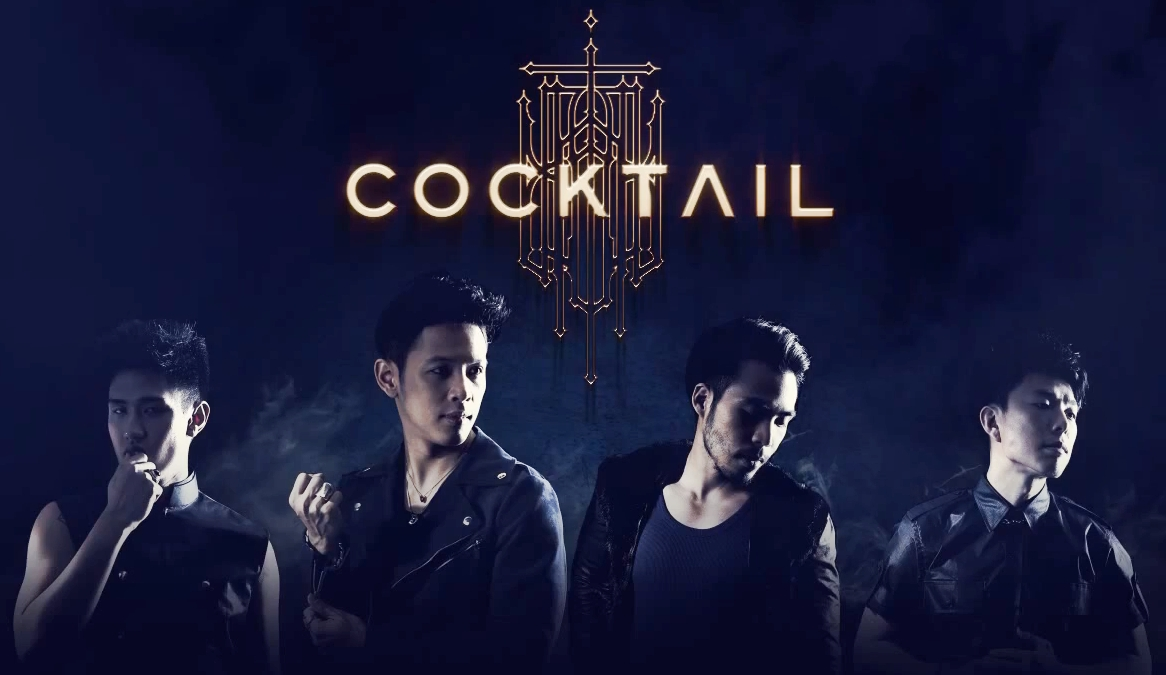
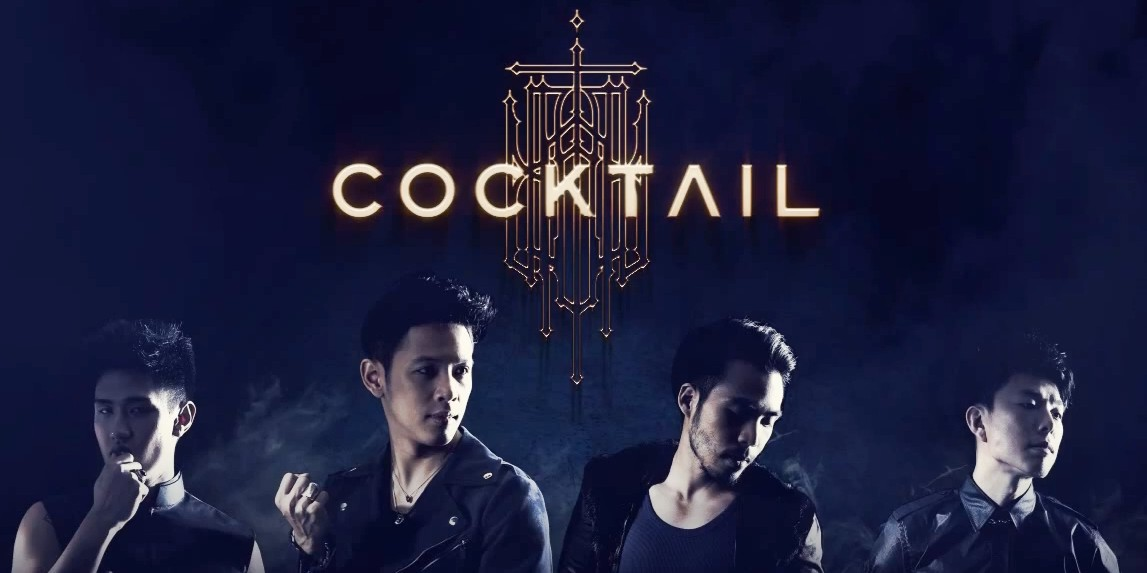
homepage and navbar

Changed region(s): [[0.0, 0.0, 1.0, 1.0], [0.1221, 0.4747, 0.1831, 0.534]]

diff --git a/apps/FrontEnd/src/component/nav.jsx b/apps/FrontEnd/src/component/nav.jsx
@@ -3,7 +3,7 @@ import Icon from '../assets/react.svg';
 
 function nav() {
     return (
-        <div className="navbar bg-transparent absolute z-20 text-white p-4">
+        <div className="navbar absolute z-20 text-white p-4">
             <div className="navbar-start">
                 {/* ซ่อนเมื่อจอมีขนาดใหญ่ */}
                 <div className="dropdown">
@@ -23,32 +23,44 @@ function nav() {
                     </div>
                     <ul
                         tabIndex={0}
-                        className="menu menu-sm dropdown-content bg-base-100 rounded-box z-[1] mt-3 w-52 p-2 shadow">
+                        className="menu menu-sm dropdown-content bg-base-100 rounded-box z-[1] mt-3 w-52 p-2 shadow tracking-widest">
                         <li><a>Home</a></li>
                         <li><a>Menu</a></li>
                         <li><a>Reservation</a></li>
                         <li><a>History</a></li>
-                        <li><a>Contact us</a></li>s
+                        <li><a>Contact us</a></li>
                     </ul>
                 </div>
                 {/* logo */}
-                <a className="text-xl">daisyUI</a>
+                <a className="text-xl"><img src="#" alt="logo" /></a>
             </div>
 
             <div className="navbar-center hidden lg:flex">
-                <ul className="menu menu-horizontal px-1 gap-32 text-lg">
-                    <li><a>Home</a></li>
-                    <li><a>Menu</a></li>
-                    <li><a>Reservation</a></li>
-                    <li><a>History</a></li>
-                    <li><a>Contact us</a></li>
+                <ul className="menu menu-horizontal px-1 gap-32 text-lg font-semibold tracking-widest">
+                    <li>
+                        <a className="hover:text-xl transition-all duration-200">Home</a>
+                    </li>
+                    <li>
+                        <a className="hover:text-xl transition-all duration-200">Menu</a>
+                    </li>
+                    <li>
+                        <a className="hover:text-xl transition-all duration-200">Reservation</a>
+                    </li>
+                    <li>
+                        <a className="hover:text-xl transition-all duration-200">History</a>
+                    </li>
+                    <li>
+                        <a className="hover:text-xl transition-all duration-200">Contact us</a>
+                    </li>
                 </ul>
             </div>
 
             <div className="navbar-end">
-                <a className=" flex px-4 py-2 gap-6 border-1 rounded-md hover:bg-white hover:text-black
+                <a className=" flex px-4 py-2 gap-6 border-1 border-white rounded-md tracking-widest hover:bg-white hover:text-black hover:border-white
                 duration-300 ease-in-out">
-                <img src={Icon} alt="icon" className='h-6'/>Puris</a>
+                    <img src={Icon} alt="icon" className='h-6' />
+                    Puris
+                </a>
             </div>
         </div>
     )

diff --git a/apps/FrontEnd/src/pages/home.jsx b/apps/FrontEnd/src/pages/home.jsx
@@ -5,13 +5,37 @@ import Cocktail from '../assets/cocktail.jpg'
 function home() {
   return (
     <>
-        <Navbar/>
-        <div className="w-full h-150 z-10 top-0 left-0">
-          <img src={Cocktail} alt="Background" className="w-full h-full object-cover" />
-        </div>
-      <div>
-
+      <Navbar />
+      <div className="w-full h-130 z-10 top-0 left-0">
+        <img src={Cocktail} alt="Background" className="w-full h-full object-cover opacity-95 brightness-70"/>
       </div>
+
+      <div class="space-y-8">
+        <section class="p-10  mb-0">
+
+        </section>
+
+        <section class="p-10 bg-white mb-0">
+
+        </section>
+
+        <section class="p-10">
+
+        </section>
+      </div>
+
+
+      {/*     
+      <div className="text-center mt-32">
+        <h2 className="text-center mb-32 text-7xl tracking-widest">
+          QUEUETY
+        </h2>
+        <div className="max-w-lg">
+          <p className="text-center tracking-widest">
+            Lorem ipsum dolor sit amet consectetur adipisicing elit. Sapiente, in? Aliquam eligendi minus consequuntur enim officia perspiciatis dolore at dicta ipsa recusandae dolor necessitatibus voluptatibus eaque sequi exercitationem, nulla, voluptas quibusdam eos! Dolorum facere beatae, ipsum atque ratione totam sed blanditiis odio. Atque vel fuga reprehenderit voluptate rerum corporis nulla. Repellat maxime pariatur similique quibusdam. Sed blanditiis esse, dolorem eaque maiores omnis in ullam rerum sunt excepturi libero consequatur nam rem illo perferendis distinctio illum dicta. Quia fuga hic dolorum, eaque voluptate, odio culpa asperiores magnam accusantium sit ad, quis nobis. Aspernatur quae ipsa dolorem nostrum deleniti, delectus commodi a?
+          </p>
+        </div>
+      </div> */}
     </>
   )
 }

diff --git a/apps/FrontEnd/src/index.css b/apps/FrontEnd/src/index.css
@@ -2,7 +2,7 @@
 @plugin "daisyui";
 
 :root{
-  background-color: #2a2929;
+  background-color: #1B1F2B;
 }
 /* 
 :root {
